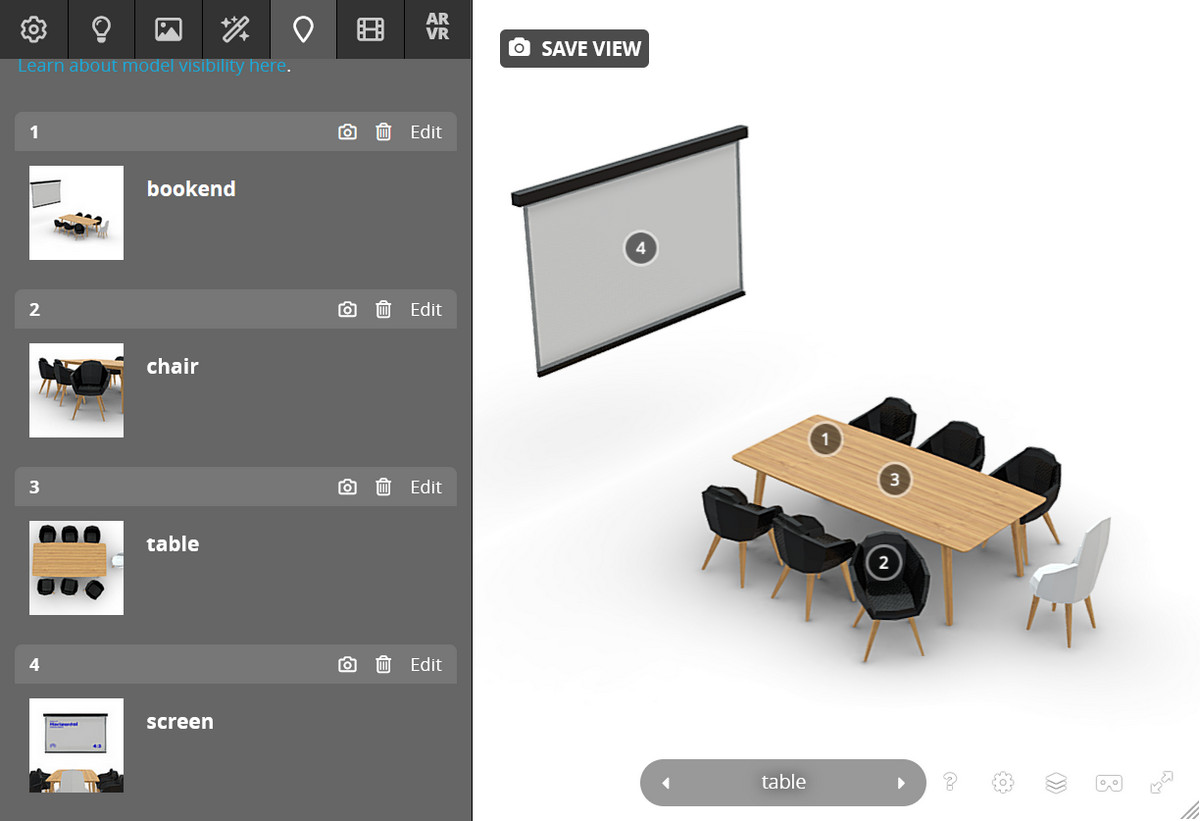
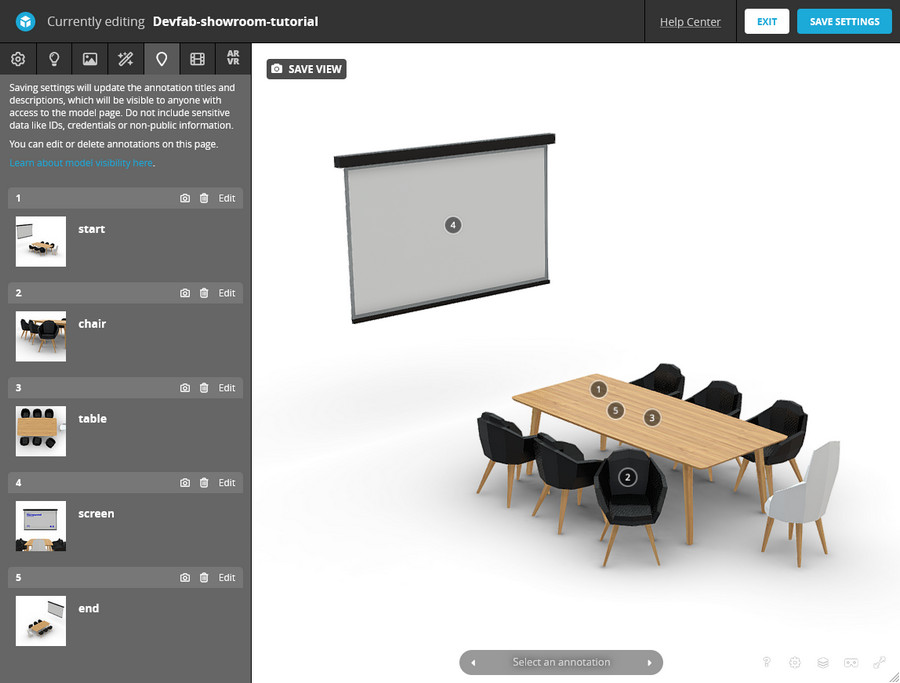
wrap up showroom experience

diff --git a/docs/projects/showroom-experience.md b/docs/projects/showroom-experience.md
@@ -62,7 +62,7 @@ Take a look at the [Menu and embedding](../guide/annotations/menu) tutorial for 
 
 I have three steps in this showroom experience. Each step has a title. By using the "next" button, the user can navigate to the next step. We've already seen this behavior in the [Product tour](./product-tour) project. The difference is that in this project, we're letting the app drive the navigation instead of the Sketchfab model.
 
-What this means is, that the model can have any number of annotations in it, but we only use the ones that we specify in the app. This gives us flexibility in how we're using the model. Our model has four annotations.
+What this means is, that the model can have any number of annotations in it, but we only use the ones that we specify in the app. This gives us flexibility in how we're using the model. Our model has five annotations.
 
 ![Annotations Sketchfab](./annotations-sketchfab.jpg)
 
@@ -97,7 +97,7 @@ const parseAnnotations = (api) => {
 };
 ```
 
-The following code snippet shows you what happens when the user presses "Next". The `setStep` method is called. It creates an ID for the next annotation and calls the `gotoAnnotation` method. That method uses the `setCameraLookAt` method to move the camera to the next annotation. Once the camera has reached its destination, we set the camera constraints again. You can see why we're doing this and how exactly in the [Annotations and constraints](../guide/annotations/annotation-constraints) tutorial. In short: we're not using the annotations to navigate, but we're using them to set the camera positions directly.
+The following code snippet shows you what happens when the user presses "Next". The `setStep` method is called. It creates an index for the next annotation and calls the `gotoAnnotation` method. That method uses the `setCameraLookAt` method to move the camera to the next annotation. Once the camera has reached its destination, we set the camera constraints again. You can see why we're doing this and how exactly in the [Annotations and constraints](../guide/annotations/annotation-constraints) tutorial. In short: we're not using the annotations to navigate, but we're using them to set the camera positions directly.
 
 ```js
 const setStep = () => {
@@ -127,59 +127,74 @@ const gotoAnnotation = (api, annotation) => {
 
 <CodePenEmbed id="bGzBJeM/0332ea4c6ad139e52dc9929caecda95c" tab="result" />
 
-I want to start and end the experience with their own steps. I'm calling these bookends. The first step is a title screen. The last step is a thank you screen. It makes the whole experience a bit more polished.
+I want to start and end the experience with their own steps. I've added two annotations with the names `start` and `end`. The first step is a title screen. The last step is a thank you screen. It makes the whole experience a bit more polished.
 
-We're enhancing the `setStep` method to handle the bookends. We're using a `stepType` variable to keep track of the current step. We're also using a `bookendAnnotation` variable to store the annotation for the bookend. The idea is that we first start, then go through our three steps and then end. Once you arrive at the end, you can restart the experience.
-
-```js
-let stepType = "start";
-
-const setStep = () => {
-  if (stepType === "start") {
-    currentId = 0;
-    stepType = "step";
-  } else if (stepType === "end") {
-    stepType = "start";
-  } else if (currentId === steps.length - 1) stepType = "end";
-  else currentId = currentId === steps.length - 1 ? 0 : currentId + 1;
-
-  const annotation =
-    stepType === "step" ? annotations[currentId] : bookendAnnotation;
-  gotoAnnotation(api, annotation);
-  showStepContent(steps[currentId]);
-};
-```
-
-To show the currect buttontext and title, we need to apply some logic. Depending on the `stepType` and the `currentId`, we need to show different text. We're using the `getContent` method to return the correct text and title. We're using the `showStepContent` method to update the DOM.
+We're enhancing the data object with two new steps. We're also adding the buttontexts in the data object. The idea is that we first start, then go through our three steps and then end. Once you arrive at the end, you can restart the experience.
 
 ```js
-const getContent = () => {
-  let buttontext = "";
-  let title = "";
-
-  if (stepType === "start") {
-    buttontext = "Start";
-    title = startStep.name;
-  } else if (stepType === "end") {
-    buttontext = "Again";
-    title = endStep.name;
-  } else if (currentId === steps.length - 1) {
-    buttontext = "Finish";
-    title = steps[currentId].name;
-  } else {
-    buttontext = "Next";
-    title = steps[currentId].name;
-  }
-  return { buttontext, title };
-};
-
-const showStepContent = (step) => {
-  const { buttontext, title } = getContent();
-  elButton.innerHTML = buttontext;
-  elTitle.innerHTML = title;
-};
+const steps = [
+  {
+    title: "Start experience",
+    annotationname: "start",
+    buttontext: "Start",
+  },
+  {
+    title: "Meeting Table",
+    annotationname: "table",
+    buttontext: "Next",
+  },
+  {
+    title: "Projection Screen",
+    annotationname: "screen",
+    buttontext: "Next",
+  },
+  {
+    title: "Desk Chair",
+    annotationname: "chair",
+    buttontext: "Finish",
+  },
+  {
+    title: "Thank you",
+    annotationname: "end",
+    buttontext: "Again",
+  },
+];
 ```
 
 ## Add more content
 
 Besides the title and the button, I also want to show a thumbnail image and some text. We need to add that content to your data objects and array and enhance the `getContent` and `showStepContent` methods.
+
+<CodePenEmbed id="NWoOEGz/88dc6b92ef757e06026d8560823402d6" tab="result" />
+
+This is simply a matter of expanding the data object and putting that data somewhere in the frontend. I've added a `body` text and an `img` url to the data object.
+
+```js
+{
+  title: "Meeting Table",
+  annotationname: "table",
+  buttontext: "Next",
+  body:
+    "The Ark white conference table is crafted from a 5 mm solid laminate top on a powder-coated steel base.",
+  img: "https://assets.codepen.io/2407400/conference-table.jpg"
+},
+```
+
+One final trick is to dynamically add textures to the 3D model. Besides showing texts and images in the frontend, we can use materials in the 3D model to display information too. It's as if we're populating a virtual showroom with information. In this example we're adding an image as a texture to the `screen-projector` material. We do that when the scene loads.
+
+```js
+api.addTexture(step.branding.src, (err, uid) => {
+  const material = materials.find(
+    (material) => material.name === step.branding?.materialname,
+  );
+  if (material) {
+    material.channels.AlbedoPBR.texture = { uid };
+    material.channels.EmitColor.texture = { uid };
+    material.channels.EmitColor.enable = true;
+    material.channels.EmitColor.factor = 1;
+    api.setMaterial(material, () => {});
+  }
+});
+```
+
+I'm addiing the texture with `addTexture` and then I use the `uid` of the new texture in the AlbedoPBR and EmitColor channels. Take a look at the [Textures](../guide/materials/textures) and [Material channels](../guide/materials/channels.md) tutorials for more information.
